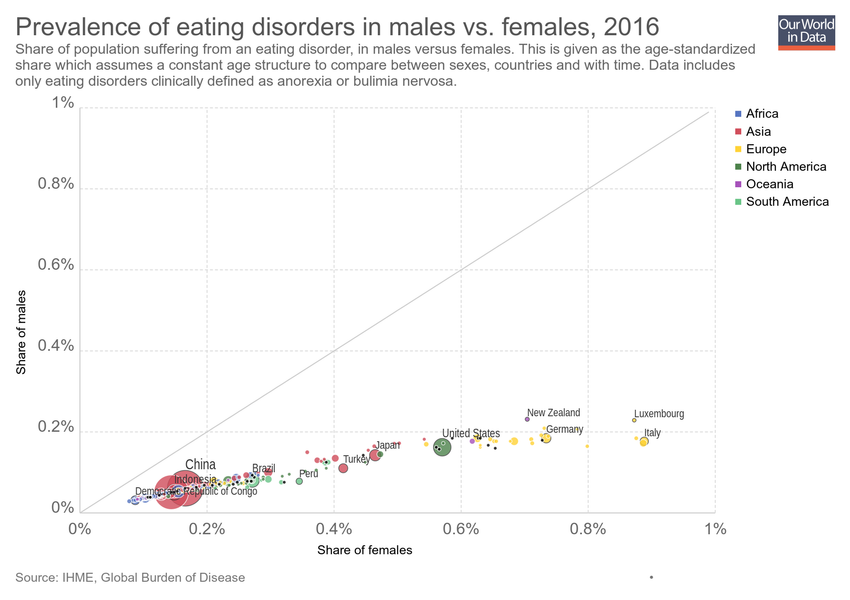
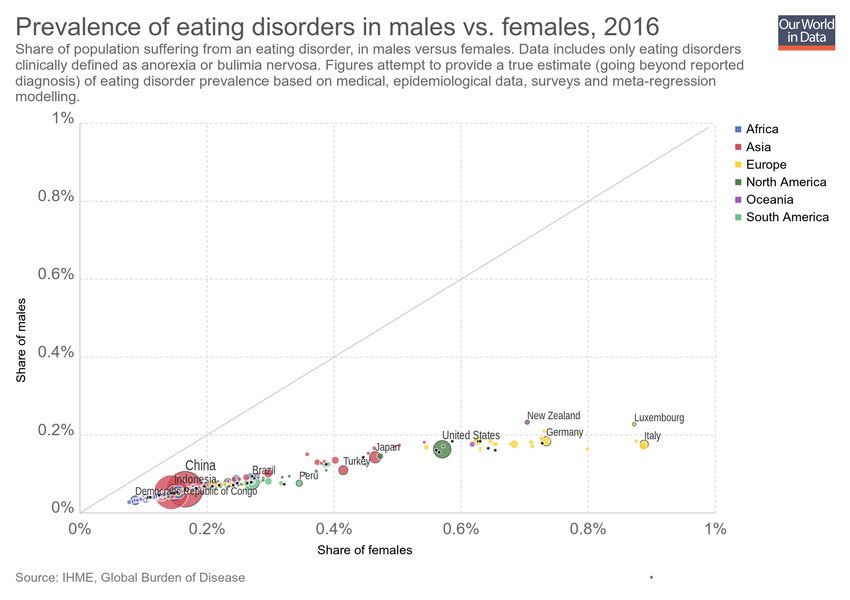
Updating chart prevalence-of-eating-disorders-in-males-vs-females

diff --git a/grapher/share-with-an-eating-disorder.html b/grapher/share-with-an-eating-disorder.html
@@ -1,4 +1,4 @@
-<!doctype html><html><head><meta name="viewport" content="width=device-width, initial-scale=1" /><title>Share of population with an eating disorder - Our World in Data</title><meta name="description" content="Share of the population suffering from the eating disorders anorexia nervosa or bulimia nervosa. This share has been age-standardized assuming a constant age structure to compare prevalence between countries and through time." /><link rel="canonical" href="https://ourworldindata.org/grapher/share-with-an-eating-disorder" /><meta property="fb:app_id" content="1149943818390250" /><meta property="og:url" content="https://ourworldindata.org/grapher/share-with-an-eating-disorder" /><meta property="og:title" content="Share of population with an eating disorder" /><meta property="og:description" content="Share of the population suffering from the eating disorders anorexia nervosa or bulimia nervosa. This share has been age-standardized assuming a constant age structure to compare prevalence between countries and through time." /><meta property="og:image" content="https://ourworldindata.org/grapher/exports/share-with-an-eating-disorder.png?v=1" /><meta property="og:image:width" content="850" /><meta property="og:image:height" content="600" /><meta property="og:site_name" content="Our World in Data" /><meta name="twitter:card" content="summary_large_image" /><meta name="twitter:site" content="@OurWorldInData" /><meta name="twitter:creator" content="@OurWorldInData" /><meta name="twitter:title" content="Share of population with an eating disorder" /><meta name="twitter:description" content="Share of the population suffering from the eating disorders anorexia nervosa or bulimia nervosa. This share has been age-standardized assuming a constant age structure to compare prevalence between countries and through time." /><meta name="twitter:image" content="https://ourworldindata.org/grapher/exports/share-with-an-eating-disorder.png?v=1" /><style>
+<!doctype html><html><head><meta name="viewport" content="width=device-width, initial-scale=1" /><title>Share of population with an eating disorder - Our World in Data</title><meta name="description" content="Share of the population suffering from the eating disorders anorexia nervosa or bulimia nervosa. This share has been age-standardized assuming a constant age structure to compare prevalence between countries and through time. Figures attempt to provide a true estimate (going beyond reported diagnosis) of eating disorder prevalence based on medical, epidemiological data, surveys and meta-regression modelling." /><link rel="canonical" href="https://ourworldindata.org/grapher/share-with-an-eating-disorder" /><meta property="fb:app_id" content="1149943818390250" /><meta property="og:url" content="https://ourworldindata.org/grapher/share-with-an-eating-disorder" /><meta property="og:title" content="Share of population with an eating disorder" /><meta property="og:description" content="Share of the population suffering from the eating disorders anorexia nervosa or bulimia nervosa. This share has been age-standardized assuming a constant age structure to compare prevalence between countries and through time. Figures attempt to provide a true estimate (going beyond reported diagnosis) of eating disorder prevalence based on medical, epidemiological data, surveys and meta-regression modelling." /><meta property="og:image" content="https://ourworldindata.org/grapher/exports/share-with-an-eating-disorder.png?v=2" /><meta property="og:image:width" content="850" /><meta property="og:image:height" content="600" /><meta property="og:site_name" content="Our World in Data" /><meta name="twitter:card" content="summary_large_image" /><meta name="twitter:site" content="@OurWorldInData" /><meta name="twitter:creator" content="@OurWorldInData" /><meta name="twitter:title" content="Share of population with an eating disorder" /><meta name="twitter:description" content="Share of the population suffering from the eating disorders anorexia nervosa or bulimia nervosa. This share has been age-standardized assuming a constant age structure to compare prevalence between countries and through time. Figures attempt to provide a true estimate (going beyond reported diagnosis) of eating disorder prevalence based on medical, epidemiological data, surveys and meta-regression modelling." /><meta name="twitter:image" content="https://ourworldindata.org/grapher/exports/share-with-an-eating-disorder.png?v=2" /><style>
         html, body {
             height: 100%;
             margin: 0;
@@ -20,8 +20,8 @@
         }
     </style><noscript><style>
                     figure { display: none !important; }
-                </style></noscript><link rel="stylesheet" href="https://ourworldindata.org/grapher/assets/commons.bundle.ac09ff8f098f0c7be836.css" /><link rel="preload" href="/grapher/data/variables/84827.json?v=1" as="fetch" crossorigin /></head><body class="singleChart"><figure data-grapher-src="/grapher/share-with-an-eating-disorder"></figure><noscript id="fallback"><img src="/grapher/exports/share-with-an-eating-disorder.svg" /><p>Interactive visualization requires JavaScript</p></noscript><script src="https://cdn.polyfill.io/v2/polyfill.min.js?features=es6,fetch"></script><script src="https://ourworldindata.org/grapher/assets/commons.bundle.ac09ff8f098f0c7be836.js"></script><script src="https://ourworldindata.org/grapher/assets/charts.bundle.dcf65b68eddaba4c6a58.js"></script><script>
-        var jsonConfig = {"map":{"projection":"World","targetYear":2016,"variableId":84827,"equalSizeBins":true,"baseColorScheme":"GnBu","isManualBuckets":true,"colorSchemeLabels":[],"colorSchemeValues":[0.05,0.1,0.2,0.3,0.4,0.5,0.6],"defaultProjection":"World","colorSchemeMinValue":0,"customNumericColors":[null],"customCategoryColors":{},"customCategoryLabels":{},"customHiddenCategories":{}},"tab":"map","slug":"share-with-an-eating-disorder","type":"LineChart","title":"Share of population with an eating disorder","xAxis":{"scaleType":"linear"},"yAxis":{"min":0,"scaleType":"linear"},"version":1,"subtitle":"Share of the population suffering from the eating disorders anorexia nervosa or bulimia nervosa. This share has been age-standardized assuming a constant age structure to compare prevalence between countries and through time.","hasMapTab":true,"stackMode":"absolute","dimensions":[{"display":{"unit":"%"},"property":"y","variableId":84827}],"sourceDesc":"IHME, Global Burden of Disease","hasChartTab":true,"isPublished":true,"selectedData":[{"index":0,"entityId":135},{"index":0,"entityId":92},{"index":0,"entityId":25},{"index":0,"entityId":13},{"index":0,"entityId":1},{"index":0,"entityId":171},{"index":0,"entityId":127}],"addCountryMode":"add-country","id":2166};
+                </style></noscript><link rel="stylesheet" href="https://ourworldindata.org/grapher/assets/commons.bundle.ac09ff8f098f0c7be836.css" /><link rel="preload" href="/grapher/data/variables/84827.json?v=2" as="fetch" crossorigin /></head><body class="singleChart"><figure data-grapher-src="/grapher/share-with-an-eating-disorder"></figure><noscript id="fallback"><img src="/grapher/exports/share-with-an-eating-disorder.svg" /><p>Interactive visualization requires JavaScript</p></noscript><script src="https://cdn.polyfill.io/v2/polyfill.min.js?features=es6,fetch"></script><script src="https://ourworldindata.org/grapher/assets/commons.bundle.ac09ff8f098f0c7be836.js"></script><script src="https://ourworldindata.org/grapher/assets/charts.bundle.dcf65b68eddaba4c6a58.js"></script><script>
+        var jsonConfig = {"id":2166,"map":{"projection":"World","targetYear":2016,"variableId":84827,"equalSizeBins":true,"baseColorScheme":"GnBu","isManualBuckets":true,"colorSchemeLabels":[],"colorSchemeValues":[0.05,0.1,0.2,0.3,0.4,0.5,0.6],"colorSchemeMinValue":0,"customNumericColors":[null],"customCategoryColors":{},"customCategoryLabels":{},"customHiddenCategories":{}},"tab":"map","slug":"share-with-an-eating-disorder","type":"LineChart","title":"Share of population with an eating disorder","xAxis":{"scaleType":"linear"},"yAxis":{"min":0,"scaleType":"linear"},"version":2,"subtitle":"Share of the population suffering from the eating disorders anorexia nervosa or bulimia nervosa. This share has been age-standardized assuming a constant age structure to compare prevalence between countries and through time. Figures attempt to provide a true estimate (going beyond reported diagnosis) of eating disorder prevalence based on medical, epidemiological data, surveys and meta-regression modelling.","hasMapTab":true,"stackMode":"absolute","dimensions":[{"display":{"unit":"%"},"property":"y","variableId":84827}],"sourceDesc":"IHME, Global Burden of Disease","hasChartTab":true,"isPublished":true,"selectedData":[{"index":0,"entityId":135},{"index":0,"entityId":92},{"index":0,"entityId":25},{"index":0,"entityId":13},{"index":0,"entityId":1},{"index":0,"entityId":171},{"index":0,"entityId":127}],"addCountryMode":"add-country"};
         var figure = document.getElementsByTagName("figure")[0];
         try {
             window.App = {};
